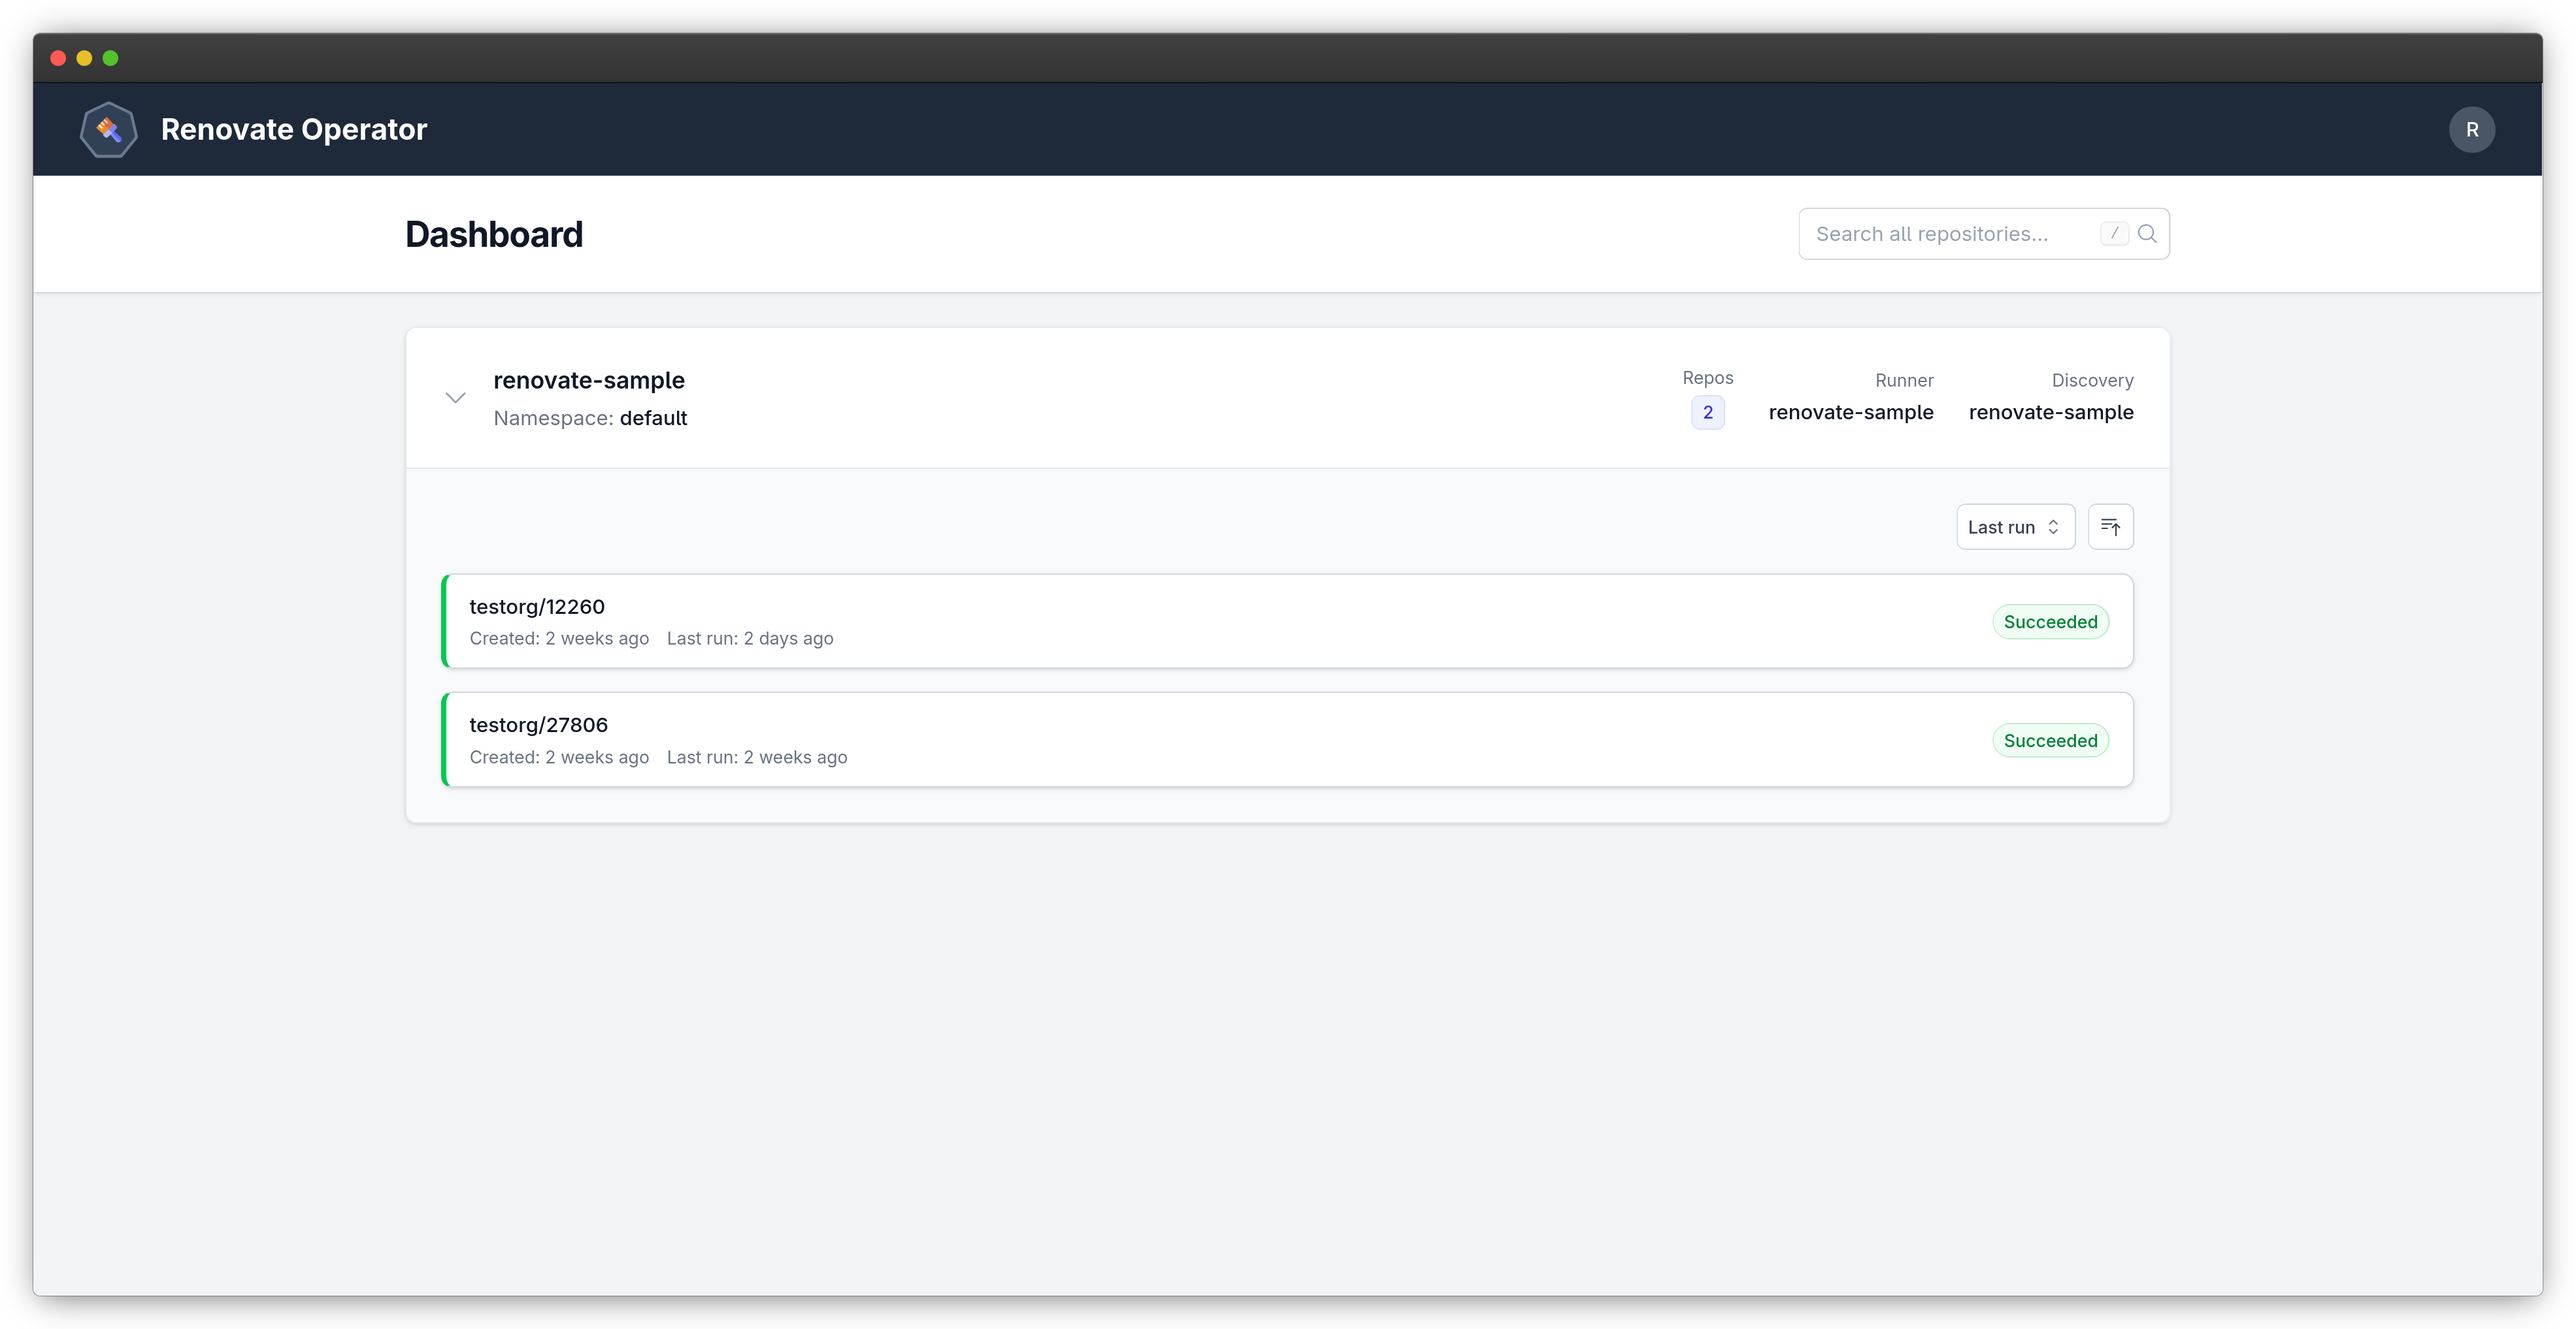
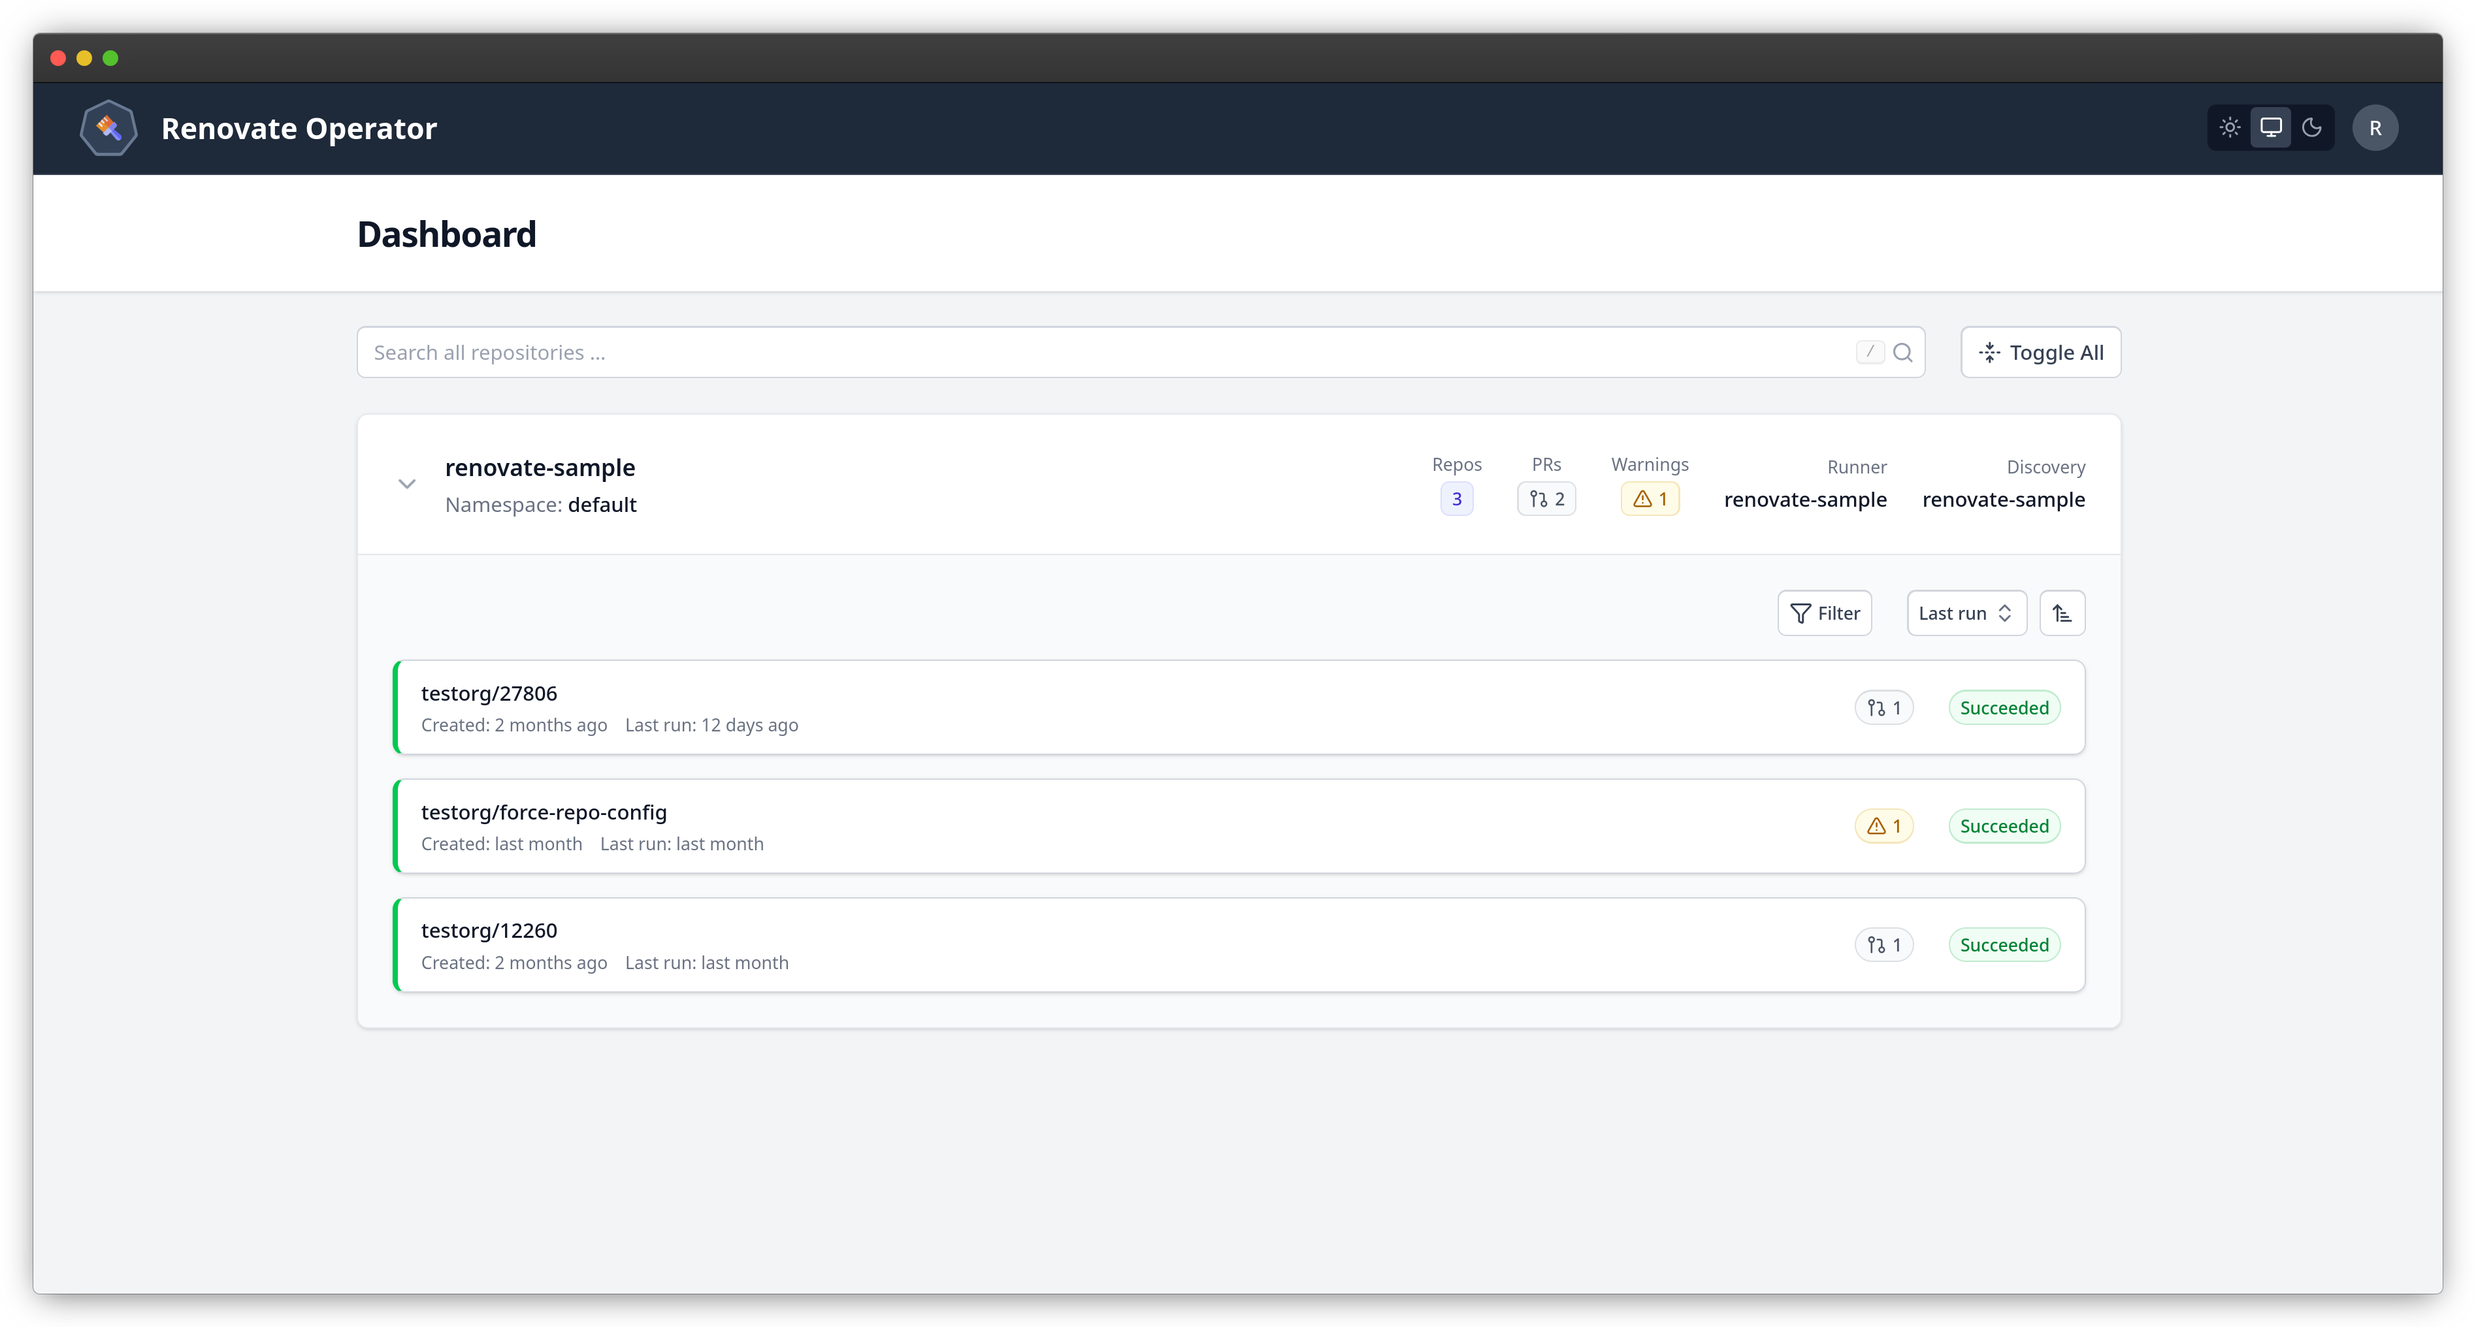
docs: add localization information to readme (#465)

diff --git a/README.md b/README.md
@@ -1,6 +1,7 @@
 # renovate-operator
 
 [![Build Status](https://ci.thegeeklab.de/api/badges/thegeeklab/renovate-operator/status.svg)](https://ci.thegeeklab.de/repos/thegeeklab/renovate-operator)
+[![Translation status](https://hosted.weblate.org/widget/renovate-operator/svg-badge.svg)](https://hosted.weblate.org/engage/renovate-operator/)
 [![GitHub contributors](https://img.shields.io/github/contributors/thegeeklab/renovate-operator)](https://github.com/thegeeklab/renovate-operator/graphs/contributors)
 [![License: MIT](https://img.shields.io/github/license/thegeeklab/renovate-operator)](https://github.com/thegeeklab/renovate-operator/blob/main/LICENSE)
 
@@ -163,6 +164,12 @@ helm uninstall renovate-operator -n renovate-system
 # If using static manifest
 kubectl delete -f install.yaml
 ```
+
+### Localization
+
+Thanks to [Weblate](https://hosted.weblate.org/engage/renovate-operator/) for hosting our localization infrastructure. Help translate renovate-operator into your language on Weblate.
+
+[![Translation status](https://hosted.weblate.org/widget/renovate-operator/horizontal-auto.svg)](https://hosted.weblate.org/engage/renovate-operator/)
 
 ## Contributors
 
